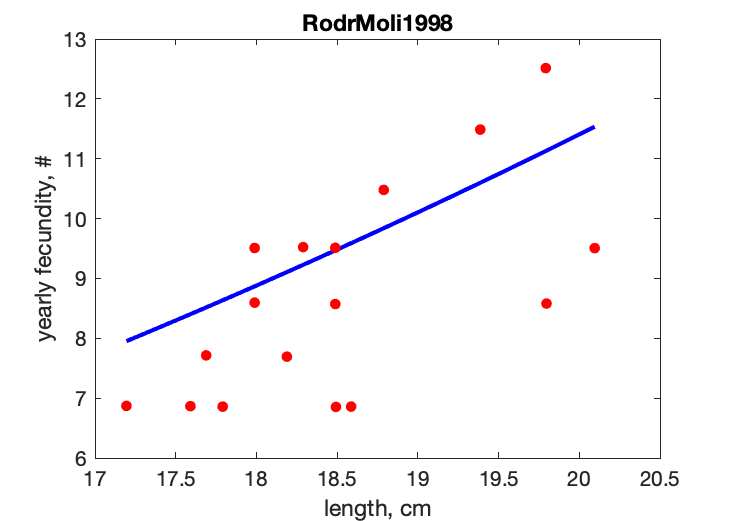
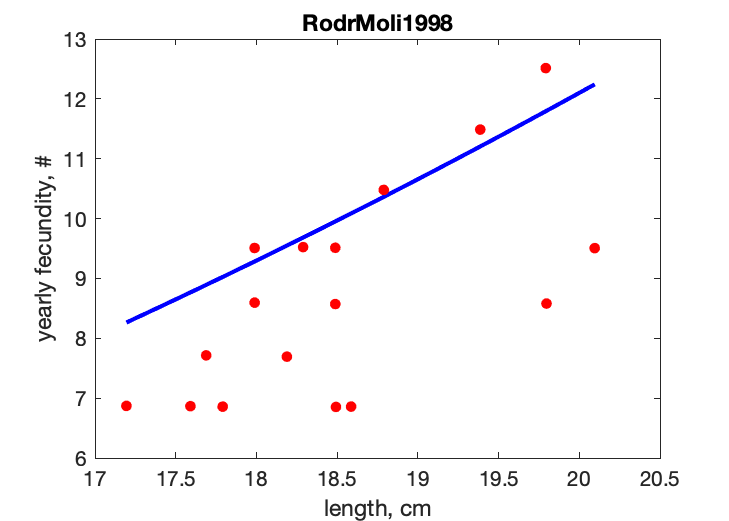
unfinished estimation just to see in which direction is going

diff --git a/Gallotia_simonyi_res.html b/Gallotia_simonyi_res.html
@@ -44,7 +44,7 @@
   </div>
 
   <div class="par">
-  <h4>COMPLETE = 2.4; MRE =    0.109; SMSE =    0.113 </h4>
+  <h4>COMPLETE = 2.4; MRE =    0.084; SMSE =    0.082 </h4>
   </div>
 
   <p class="clear"></p>
@@ -53,29 +53,29 @@
   <h2>Data & predictions</h2>
   <TABLE id="prd">
     <TR  class="head"><TH>data</TH> <TH>prd</TH> <TH>RE</TH>  <TH>symbol</TH> <TH>units</TH> <TH>description</TH> </TR>
-    <TR><TD> 56</TD> <TD>61.63</TD> <TD>0.1006</TD> <TD>ab</TD> <TD>d</TD> <TD>age at birth</TD></TR>
-    <TR><TD>1050</TD> <TD>1018</TD> <TD>0.03015</TD> <TD>tp</TD> <TD>d</TD> <TD>time since birth at puberty</TD></TR>
-    <TR><TD>3990</TD> <TD>4358</TD> <TD>0.09213</TD> <TD>am</TD> <TD>d</TD> <TD>life span</TD></TR>
-    <TR><TD>5.29</TD> <TD>5.254</TD> <TD>0.006793</TD> <TD>Lb</TD> <TD>cm</TD> <TD>SVL at hatching</TD></TR>
-    <TR><TD>13.1</TD> <TD>12.54</TD> <TD>0.04255</TD> <TD>Lp</TD> <TD>cm</TD> <TD>SVL at puberty</TD></TR>
-    <TR><TD>13.5</TD> <TD>11.63</TD> <TD>0.1383</TD> <TD>Lpm</TD> <TD>cm</TD> <TD>SVL at puberty males</TD></TR>
-    <TR><TD>16.5</TD> <TD>17.02</TD> <TD>0.03134</TD> <TD>Li</TD> <TD>cm</TD> <TD>ultimate SVL</TD></TR>
-    <TR><TD>19.4</TD> <TD>19.7</TD> <TD>0.01542</TD> <TD>Lim</TD> <TD>cm</TD> <TD>ultimate SVL males</TD></TR>
-    <TR><TD>5.2</TD> <TD>4.194</TD> <TD>0.1934</TD> <TD>Ww0</TD> <TD>g</TD> <TD>wet weight of eggs</TD></TR>
-    <TR><TD>3.95</TD> <TD>2.746</TD> <TD>0.3047</TD> <TD>Wwb</TD> <TD>g</TD> <TD>wet weight of hatchlings</TD></TR>
-    <TR><TD>89.35</TD> <TD>93.3</TD> <TD>0.04426</TD> <TD>Wwi</TD> <TD>g</TD> <TD>ultimate wet weight</TD></TR>
-    <TR><TD>151</TD> <TD>148.5</TD> <TD>0.01686</TD> <TD>Wwim</TD> <TD>g</TD> <TD>ultimate wet males</TD></TR>
-    <TR><TD>0.02356</TD> <TD>0.01697</TD> <TD>0.2798</TD> <TD>Ri</TD> <TD>#/d</TD> <TD>maximum reprod rate</TD></TR>
-    <TR><TD colspan="2">see figure</TD> <TD>0.146</TD> <TD>LN</TD> <TD colspan="2">length, <font color="blue"><i>vs.</i></font> yearly fecundity</TD>
-    <TR><TD colspan="2">see figure</TD> <TD>0.1891</TD> <TD>tL_j</TD> <TD colspan="2">time since birth, <font color="blue"><i>vs.</i></font> SVL</TD>
-    <TR><TD colspan="2">see figure</TD> <TD>0.109</TD> <TD>tL</TD> <TD colspan="2">time since birth, <font color="blue"><i>vs.</i></font> SVL</TD>
-    <TR class="psd"><TD>0.02</TD> <TD>0.07284</TD> <TD>2.642</TD> <TD>psd.v</TD> <TD>cm/d</TD> <TD>energy conductance</TD></TR>
-    <TR class="psd"><TD>0.8</TD> <TD>0.7711</TD> <TD>0.03615</TD> <TD>psd.kap</TD> <TD>-</TD> <TD>allocation fraction to soma</TD></TR>
+    <TR><TD> 56</TD> <TD>58.1</TD> <TD>0.03757</TD> <TD>ab</TD> <TD>d</TD> <TD>age at birth</TD></TR>
+    <TR><TD>1050</TD> <TD>1011</TD> <TD>0.037</TD> <TD>tp</TD> <TD>d</TD> <TD>time since birth at puberty</TD></TR>
+    <TR><TD>3990</TD> <TD>3884</TD> <TD>0.02662</TD> <TD>am</TD> <TD>d</TD> <TD>life span</TD></TR>
+    <TR><TD>5.29</TD> <TD>5.585</TD> <TD>0.05575</TD> <TD>Lb</TD> <TD>cm</TD> <TD>SVL at hatching</TD></TR>
+    <TR><TD>13.1</TD> <TD>12.41</TD> <TD>0.05237</TD> <TD>Lp</TD> <TD>cm</TD> <TD>SVL at puberty</TD></TR>
+    <TR><TD>13.5</TD> <TD>13.35</TD> <TD>0.01132</TD> <TD>Lpm</TD> <TD>cm</TD> <TD>SVL at puberty males</TD></TR>
+    <TR><TD>16.5</TD> <TD>17.5</TD> <TD>0.06044</TD> <TD>Li</TD> <TD>cm</TD> <TD>ultimate SVL</TD></TR>
+    <TR><TD>19.4</TD> <TD>19.94</TD> <TD>0.02803</TD> <TD>Lim</TD> <TD>cm</TD> <TD>ultimate SVL males</TD></TR>
+    <TR><TD>5.2</TD> <TD>5.615</TD> <TD>0.07978</TD> <TD>Ww0</TD> <TD>g</TD> <TD>wet weight of eggs</TD></TR>
+    <TR><TD>3.95</TD> <TD>3.262</TD> <TD>0.1742</TD> <TD>Wwb</TD> <TD>g</TD> <TD>wet weight of hatchlings</TD></TR>
+    <TR><TD>89.35</TD> <TD>100.3</TD> <TD>0.1226</TD> <TD>Wwi</TD> <TD>g</TD> <TD>ultimate wet weight</TD></TR>
+    <TR><TD>151</TD> <TD>151.5</TD> <TD>0.003323</TD> <TD>Wwim</TD> <TD>g</TD> <TD>ultimate wet males</TD></TR>
+    <TR><TD>0.02356</TD> <TD>0.01892</TD> <TD>0.1969</TD> <TD>Ri</TD> <TD>#/d</TD> <TD>maximum reprod rate</TD></TR>
+    <TR><TD colspan="2">see figure</TD> <TD>0.1675</TD> <TD>LN</TD> <TD colspan="2">length, <font color="blue"><i>vs.</i></font> yearly fecundity</TD>
+    <TR><TD colspan="2">see figure</TD> <TD>0.1806</TD> <TD>tL_j</TD> <TD colspan="2">time since birth, <font color="blue"><i>vs.</i></font> SVL</TD>
+    <TR><TD colspan="2">see figure</TD> <TD>0.1103</TD> <TD>tL</TD> <TD colspan="2">time since birth, <font color="blue"><i>vs.</i></font> SVL</TD>
+    <TR class="psd"><TD>0.02</TD> <TD>0.08634</TD> <TD>3.317</TD> <TD>psd.v</TD> <TD>cm/d</TD> <TD>energy conductance</TD></TR>
+    <TR class="psd"><TD>0.8</TD> <TD>0.6618</TD> <TD>0.1727</TD> <TD>psd.kap</TD> <TD>-</TD> <TD>allocation fraction to soma</TD></TR>
     <TR class="psd"><TD>0.95</TD> <TD>0.95</TD> <TD>  0</TD> <TD>psd.kap_R</TD> <TD>-</TD> <TD>reproduction efficiency</TD></TR>
-    <TR class="psd"><TD> 18</TD> <TD>17.8</TD> <TD>0.01113</TD> <TD>psd.p_M</TD> <TD>J/d.cm^3</TD> <TD>vol-spec som maint</TD></TR>
-    <TR class="psd"><TD>0.002</TD> <TD>0.0003357</TD> <TD>0.8322</TD> <TD>psd.k_J</TD> <TD>1/d</TD> <TD>maturity maint rate coefficient</TD></TR>
-    <TR class="psd"><TD>0.8</TD> <TD>0.7863</TD> <TD>0.01711</TD> <TD>psd.kap_G</TD> <TD>-</TD> <TD>growth efficiency</TD></TR>
-    <TR class="psd"><TD>0.3</TD> <TD>0.1505</TD> <TD>0.4983</TD> <TD>psd.k</TD> <TD>-</TD> <TD>maintenance ratio</TD></TR>
+    <TR class="psd"><TD> 18</TD> <TD>15.06</TD> <TD>0.1631</TD> <TD>psd.p_M</TD> <TD>J/d.cm^3</TD> <TD>vol-spec som maint</TD></TR>
+    <TR class="psd"><TD>0.002</TD> <TD>0.0005884</TD> <TD>0.7058</TD> <TD>psd.k_J</TD> <TD>1/d</TD> <TD>maturity maint rate coefficient</TD></TR>
+    <TR class="psd"><TD>0.8</TD> <TD>0.8006</TD> <TD>0.000787</TD> <TD>psd.kap_G</TD> <TD>-</TD> <TD>growth efficiency</TD></TR>
+    <TR class="psd"><TD>0.3</TD> <TD>0.3062</TD> <TD>0.0206</TD> <TD>psd.k</TD> <TD>-</TD> <TD>maintenance ratio</TD></TR>
   </TABLE>
   </div>
 
@@ -85,27 +85,27 @@
     <TR class="head"><TH>symbol</TH> <TH>units</TH> <TH>value</TH>  <TH>free</TH> <TH>description</TH> </TR>
     <TR><TD>T_ref</TD> <TD>K</TD> <TD>293.1</TD> <TD>0</TD> <TD>Reference temperature</TD></TR>
     <TR><TD>T_A</TD> <TD>K</TD> <TD>8000</TD> <TD>0</TD> <TD>Arrhenius temperature</TD></TR>
-    <TR><TD>z</TD> <TD>-</TD> <TD>4.273</TD> <TD>1</TD> <TD>zoom factor for females</TD></TR>
+    <TR><TD>z</TD> <TD>-</TD> <TD>4.411</TD> <TD>1</TD> <TD>zoom factor for females</TD></TR>
     <TR><TD>F_m</TD> <TD>l/d.cm^2</TD> <TD>6.5</TD> <TD>0</TD> <TD>{F_m}, max spec searching rate</TD></TR>
     <TR><TD>kap_X</TD> <TD>-</TD> <TD>0.8</TD> <TD>0</TD> <TD>digestion efficiency of food to reserve</TD></TR>
     <TR><TD>kap_P</TD> <TD>-</TD> <TD>0.1</TD> <TD>0</TD> <TD>faecation efficiency of food to faeces</TD></TR>
-    <TR><TD>v</TD> <TD>cm/d</TD> <TD>0.07284</TD> <TD>1</TD> <TD>energy conductance</TD></TR>
-    <TR><TD>kap</TD> <TD>-</TD> <TD>0.7711</TD> <TD>1</TD> <TD>allocation fraction to soma</TD></TR>
+    <TR><TD>v</TD> <TD>cm/d</TD> <TD>0.08634</TD> <TD>1</TD> <TD>energy conductance</TD></TR>
+    <TR><TD>kap</TD> <TD>-</TD> <TD>0.6618</TD> <TD>1</TD> <TD>allocation fraction to soma</TD></TR>
     <TR><TD>kap_R</TD> <TD>-</TD> <TD>0.95</TD> <TD>0</TD> <TD>reproduction efficiency</TD></TR>
-    <TR><TD>p_M</TD> <TD>J/d.cm^3</TD> <TD>17.8</TD> <TD>1</TD> <TD>[p_M], vol-spec somatic maint</TD></TR>
+    <TR><TD>p_M</TD> <TD>J/d.cm^3</TD> <TD>15.06</TD> <TD>1</TD> <TD>[p_M], vol-spec somatic maint</TD></TR>
     <TR><TD>p_T</TD> <TD>J/d.cm^2</TD> <TD>  0</TD> <TD>0</TD> <TD>{p_T}, surf-spec somatic maint</TD></TR>
-    <TR><TD>k_J</TD> <TD>1/d</TD> <TD>0.0003357</TD> <TD>1</TD> <TD>maturity maint rate coefficient</TD></TR>
-    <TR><TD>E_G</TD> <TD>J/cm^3</TD> <TD>7982</TD> <TD>1</TD> <TD>[E_G], spec cost for structure</TD></TR>
-    <TR><TD>E_Hb</TD> <TD>J</TD> <TD>5842</TD> <TD>1</TD> <TD>maturity at birth</TD></TR>
-    <TR><TD>E_Hp</TD> <TD>J</TD> <TD>1.608e+05</TD> <TD>1</TD> <TD>maturity at puberty</TD></TR>
-    <TR><TD>h_a</TD> <TD>1/d^2</TD> <TD>1.003e-09</TD> <TD>1</TD> <TD>Weibull aging acceleration</TD></TR>
+    <TR><TD>k_J</TD> <TD>1/d</TD> <TD>0.0005884</TD> <TD>1</TD> <TD>maturity maint rate coefficient</TD></TR>
+    <TR><TD>E_G</TD> <TD>J/cm^3</TD> <TD>7839</TD> <TD>1</TD> <TD>[E_G], spec cost for structure</TD></TR>
+    <TR><TD>E_Hb</TD> <TD>J</TD> <TD>1.175e+04</TD> <TD>1</TD> <TD>maturity at birth</TD></TR>
+    <TR><TD>E_Hp</TD> <TD>J</TD> <TD>2.141e+05</TD> <TD>1</TD> <TD>maturity at puberty</TD></TR>
+    <TR><TD>h_a</TD> <TD>1/d^2</TD> <TD>1.234e-09</TD> <TD>1</TD> <TD>Weibull aging acceleration</TD></TR>
     <TR><TD>s_G</TD> <TD>-</TD> <TD>0.0001</TD> <TD>0</TD> <TD>Gompertz stress coefficient</TD></TR>
-    <TR><TD>E_Hpm</TD> <TD>J</TD> <TD>6.618e+04</TD> <TD>1</TD> <TD>maturity at puberty for males</TD></TR>
-    <TR><TD>del_M</TD> <TD>-</TD> <TD>0.2511</TD> <TD>1</TD> <TD>shape coefficient</TD></TR>
+    <TR><TD>E_Hpm</TD> <TD>J</TD> <TD>1.72e+05</TD> <TD>1</TD> <TD>maturity at puberty for males</TD></TR>
+    <TR><TD>del_M</TD> <TD>-</TD> <TD>0.2521</TD> <TD>1</TD> <TD>shape coefficient</TD></TR>
     <TR><TD>f</TD> <TD>-</TD> <TD>  1</TD> <TD>0</TD> <TD>scaled functional response for 0-var data</TD></TR>
     <TR><TD>f_LN</TD> <TD>-</TD> <TD>  1</TD> <TD>0</TD> <TD>scaled functional response for LN data</TD></TR>
     <TR><TD>f_tL</TD> <TD>-</TD> <TD>  1</TD> <TD>0</TD> <TD>scaled functional response for tL data</TD></TR>
-    <TR><TD>z_m</TD> <TD>-</TD> <TD>4.946</TD> <TD>1</TD> <TD>zoom factor for males</TD></TR>
+    <TR><TD>z_m</TD> <TD>-</TD> <TD>5.028</TD> <TD>1</TD> <TD>zoom factor for males</TD></TR>
   </TABLE>
   </div>
 

diff --git a/pars_init_Gallotia_simonyi.m b/pars_init_Gallotia_simonyi.m
@@ -7,29 +7,29 @@ par.T_ref = 293.15;   free.T_ref = 0;   units.T_ref = 'K';        label.T_ref = 
 
 %% core primary parameters 
 par.T_A = 8000;       free.T_A   = 0;   units.T_A = 'K';          label.T_A = 'Arrhenius temperature'; 
-par.z = 4.2053;       free.z     = 1;   units.z = '-';            label.z = 'zoom factor for females'; 
+par.z = 4.4114;       free.z     = 1;   units.z = '-';            label.z = 'zoom factor for females'; 
 par.F_m = 6.5;        free.F_m   = 0;   units.F_m = 'l/d.cm^2';   label.F_m = '{F_m}, max spec searching rate'; 
 par.kap_X = 0.8;      free.kap_X = 0;   units.kap_X = '-';        label.kap_X = 'digestion efficiency of food to reserve'; 
 par.kap_P = 0.1;      free.kap_P = 0;   units.kap_P = '-';        label.kap_P = 'faecation efficiency of food to faeces'; 
-par.v = 0.060871;     free.v     = 1;   units.v = 'cm/d';         label.v = 'energy conductance'; 
-par.kap = 0.80339;    free.kap   = 1;   units.kap = '-';          label.kap = 'allocation fraction to soma'; 
+par.v = 0.086345;     free.v     = 1;   units.v = 'cm/d';         label.v = 'energy conductance'; 
+par.kap = 0.66185;    free.kap   = 1;   units.kap = '-';          label.kap = 'allocation fraction to soma'; 
 par.kap_R = 0.95;     free.kap_R = 0;   units.kap_R = '-';        label.kap_R = 'reproduction efficiency'; 
-par.p_M = 18.1128;    free.p_M   = 1;   units.p_M = 'J/d.cm^3';   label.p_M = '[p_M], vol-spec somatic maint'; 
+par.p_M = 15.0642;    free.p_M   = 1;   units.p_M = 'J/d.cm^3';   label.p_M = '[p_M], vol-spec somatic maint'; 
 par.p_T = 0;          free.p_T   = 0;   units.p_T = 'J/d.cm^2';   label.p_T = '{p_T}, surf-spec somatic maint'; 
-par.k_J = 0.00069461;  free.k_J   = 1;   units.k_J = '1/d';        label.k_J = 'maturity maint rate coefficient'; 
-par.E_G = 7846.4171;  free.E_G   = 1;   units.E_G = 'J/cm^3';     label.E_G = '[E_G], spec cost for structure'; 
-par.E_Hb = 2.744e+03; free.E_Hb  = 1;   units.E_Hb = 'J';         label.E_Hb = 'maturity at birth'; 
-par.E_Hp = 1.000e+05; free.E_Hp  = 1;   units.E_Hp = 'J';         label.E_Hp = 'maturity at puberty'; 
-par.h_a = 1.540e-09;  free.h_a   = 1;   units.h_a = '1/d^2';      label.h_a = 'Weibull aging acceleration'; 
+par.k_J = 0.00058838;  free.k_J   = 1;   units.k_J = '1/d';        label.k_J = 'maturity maint rate coefficient'; 
+par.E_G = 7839.0186;  free.E_G   = 1;   units.E_G = 'J/cm^3';     label.E_G = '[E_G], spec cost for structure'; 
+par.E_Hb = 1.175e+04; free.E_Hb  = 1;   units.E_Hb = 'J';         label.E_Hb = 'maturity at birth'; 
+par.E_Hp = 2.141e+05; free.E_Hp  = 1;   units.E_Hp = 'J';         label.E_Hp = 'maturity at puberty'; 
+par.h_a = 1.234e-09;  free.h_a   = 1;   units.h_a = '1/d^2';      label.h_a = 'Weibull aging acceleration'; 
 par.s_G = 0.0001;     free.s_G   = 0;   units.s_G = '-';          label.s_G = 'Gompertz stress coefficient'; 
 
 %% other parameters 
-par.E_Hpm = 5.513e+04; free.E_Hpm = 1;   units.E_Hpm = 'J';        label.E_Hpm = 'maturity at puberty for males'; 
-par.del_M = 0.22351;  free.del_M = 1;   units.del_M = '-';        label.del_M = 'shape coefficient'; 
+par.E_Hpm = 1.720e+05; free.E_Hpm = 1;   units.E_Hpm = 'J';        label.E_Hpm = 'maturity at puberty for males'; 
+par.del_M = 0.25212;  free.del_M = 1;   units.del_M = '-';        label.del_M = 'shape coefficient'; 
 par.f = 1;            free.f     = 0;   units.f = '-';            label.f = 'scaled functional response for 0-var data'; 
 par.f_LN = 1;         free.f_LN  = 0;   units.f_LN = '-';         label.f_LN = 'scaled functional response for LN data'; 
 par.f_tL = 1;         free.f_tL  = 0;   units.f_tL = '-';         label.f_tL = 'scaled functional response for tL data'; 
-par.z_m = 4.8703;     free.z_m   = 1;   units.z_m = '-';          label.z_m = 'zoom factor for males'; 
+par.z_m = 5.0282;     free.z_m   = 1;   units.z_m = '-';          label.z_m = 'zoom factor for males'; 
 
 %% set chemical parameters from Kooy2010 
 [par, units, label, free] = addchem(par, units, label, free, metaData.phylum, metaData.class); 

diff --git a/run_Gallotia_simonyi.m b/run_Gallotia_simonyi.m
@@ -8,7 +8,7 @@ estim_options('default');
 estim_options('max_step_number', 5e2); 
 estim_options('max_fun_evals', 5e3); 
 
-estim_options('pars_init_method', 2); 
+estim_options('pars_init_method', 1); 
 estim_options('results_output', 3); 
 estim_options('method', 'nm'); 
 
